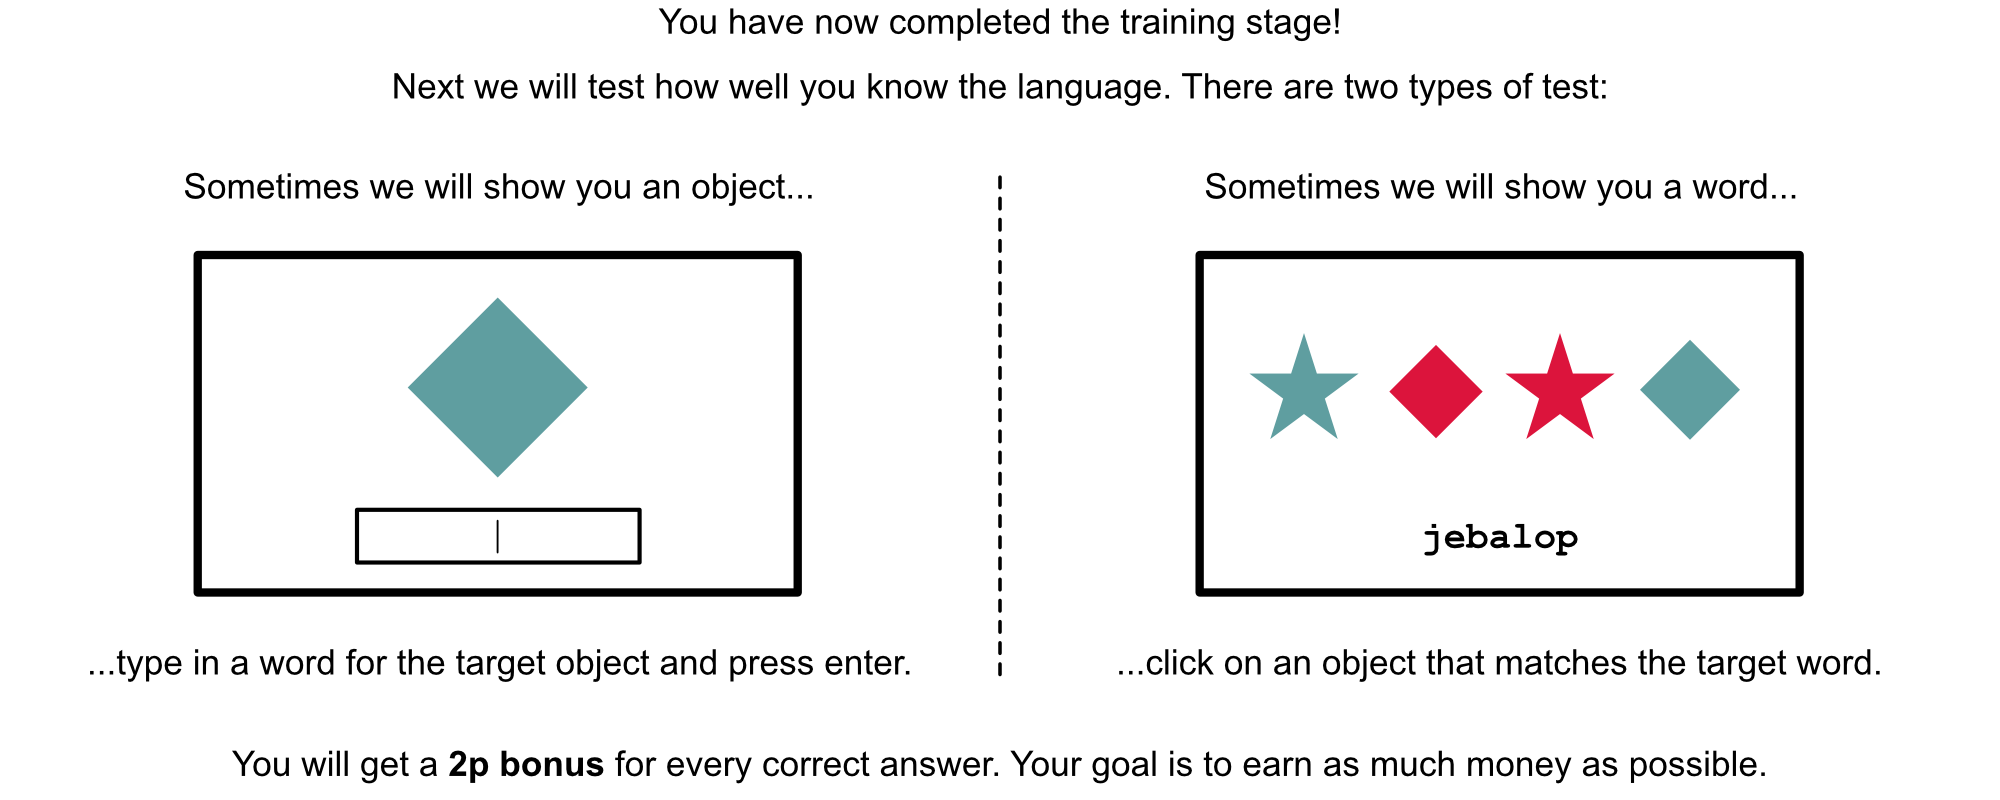
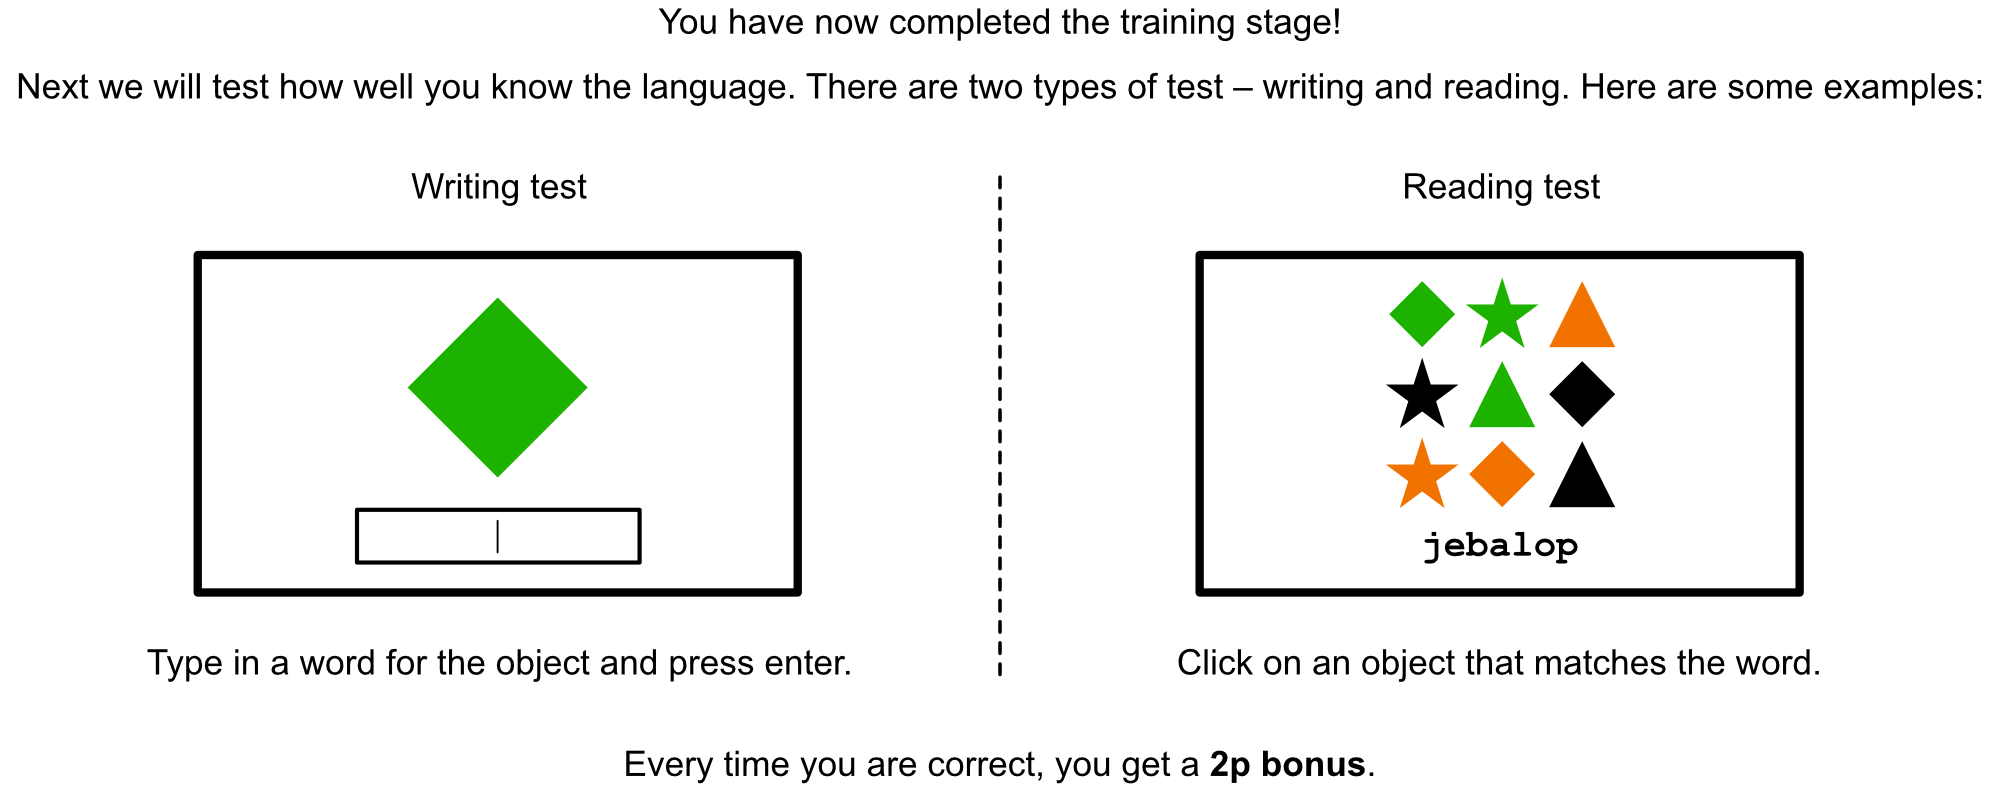
Improve instructions, including animated communication game example

diff --git a/experiment/client/index.html b/experiment/client/index.html
@@ -51,7 +51,12 @@
 			<img id='inst_training_for_communication' src='images/instructions/training_for_communication.png' width='1000' height='400' style='display: none;' />
 			<img id='inst_training_for_test' src='images/instructions/training_for_test.png' width='1000' height='400' style='display: none;' />
 			<img id='inst_test' src='images/instructions/test.png' width='1000' height='400' style='display: none;' />
-			<img id='inst_communication' src='images/instructions/communication.png' width='1000' height='400' style='display: none;' />
+			<div id='inst_communication' style="display: none;">
+				<img src='images/instructions/communication_top.png' width='1000' height='106' />
+				<img src='images/instructions/communication_ani.gif' width='1000' height='190' />
+				<img src='images/instructions/communication_bot.png' width='1000' height='96' />
+			</div>
+
 		</div>
 
 		<div id='object' style='display: none;'>
